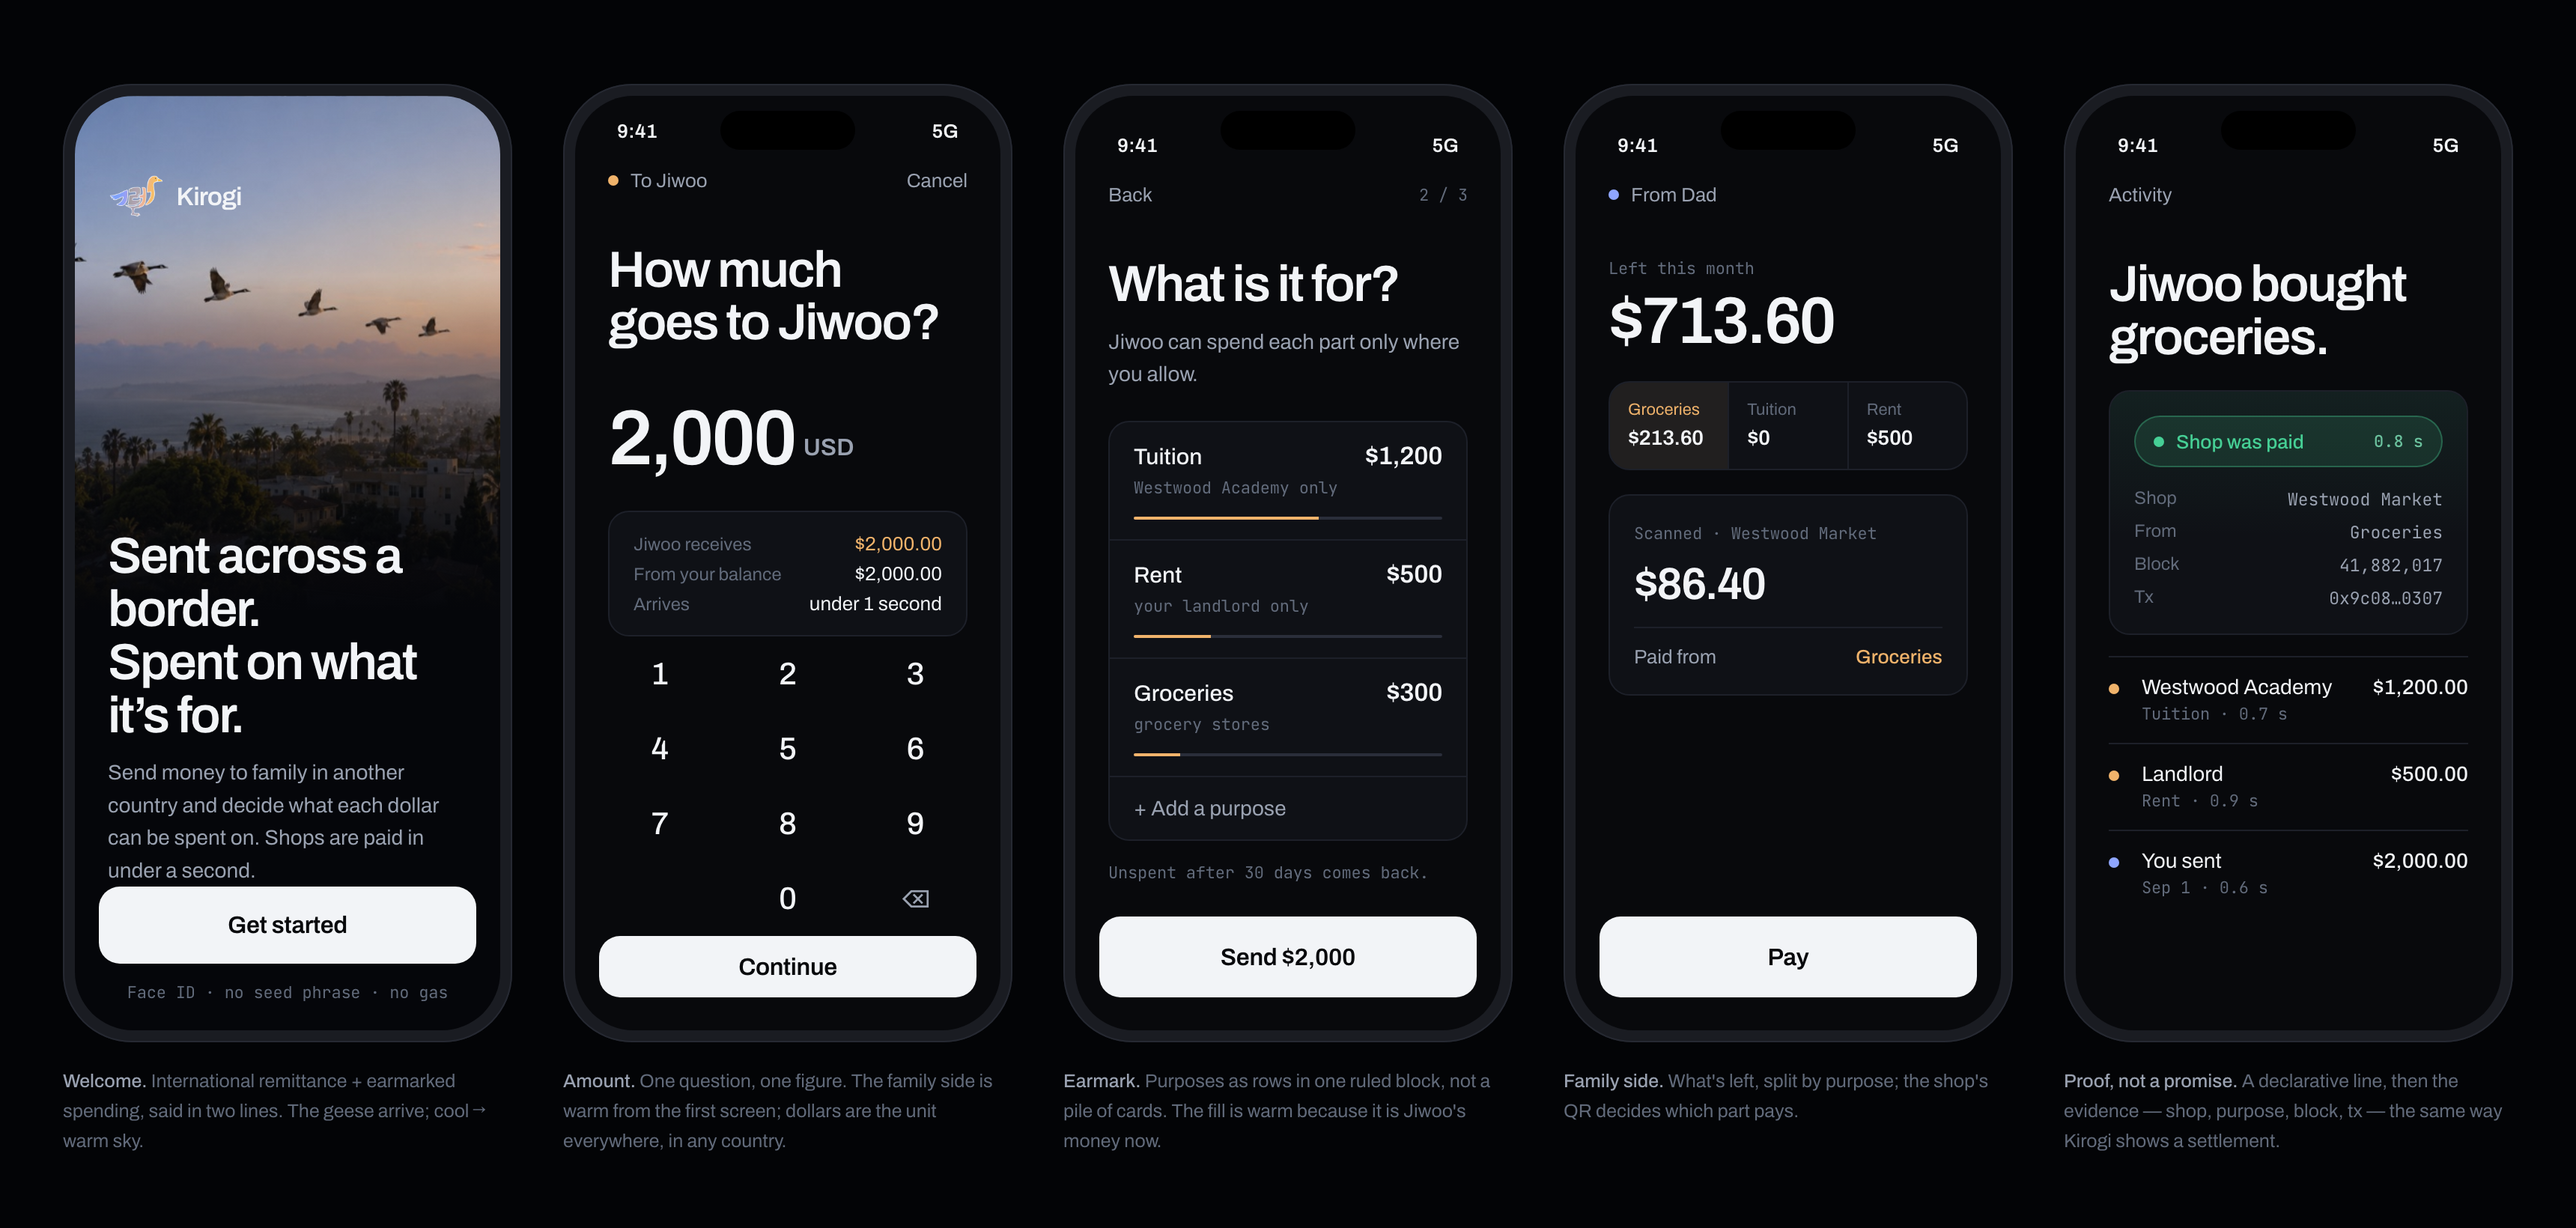
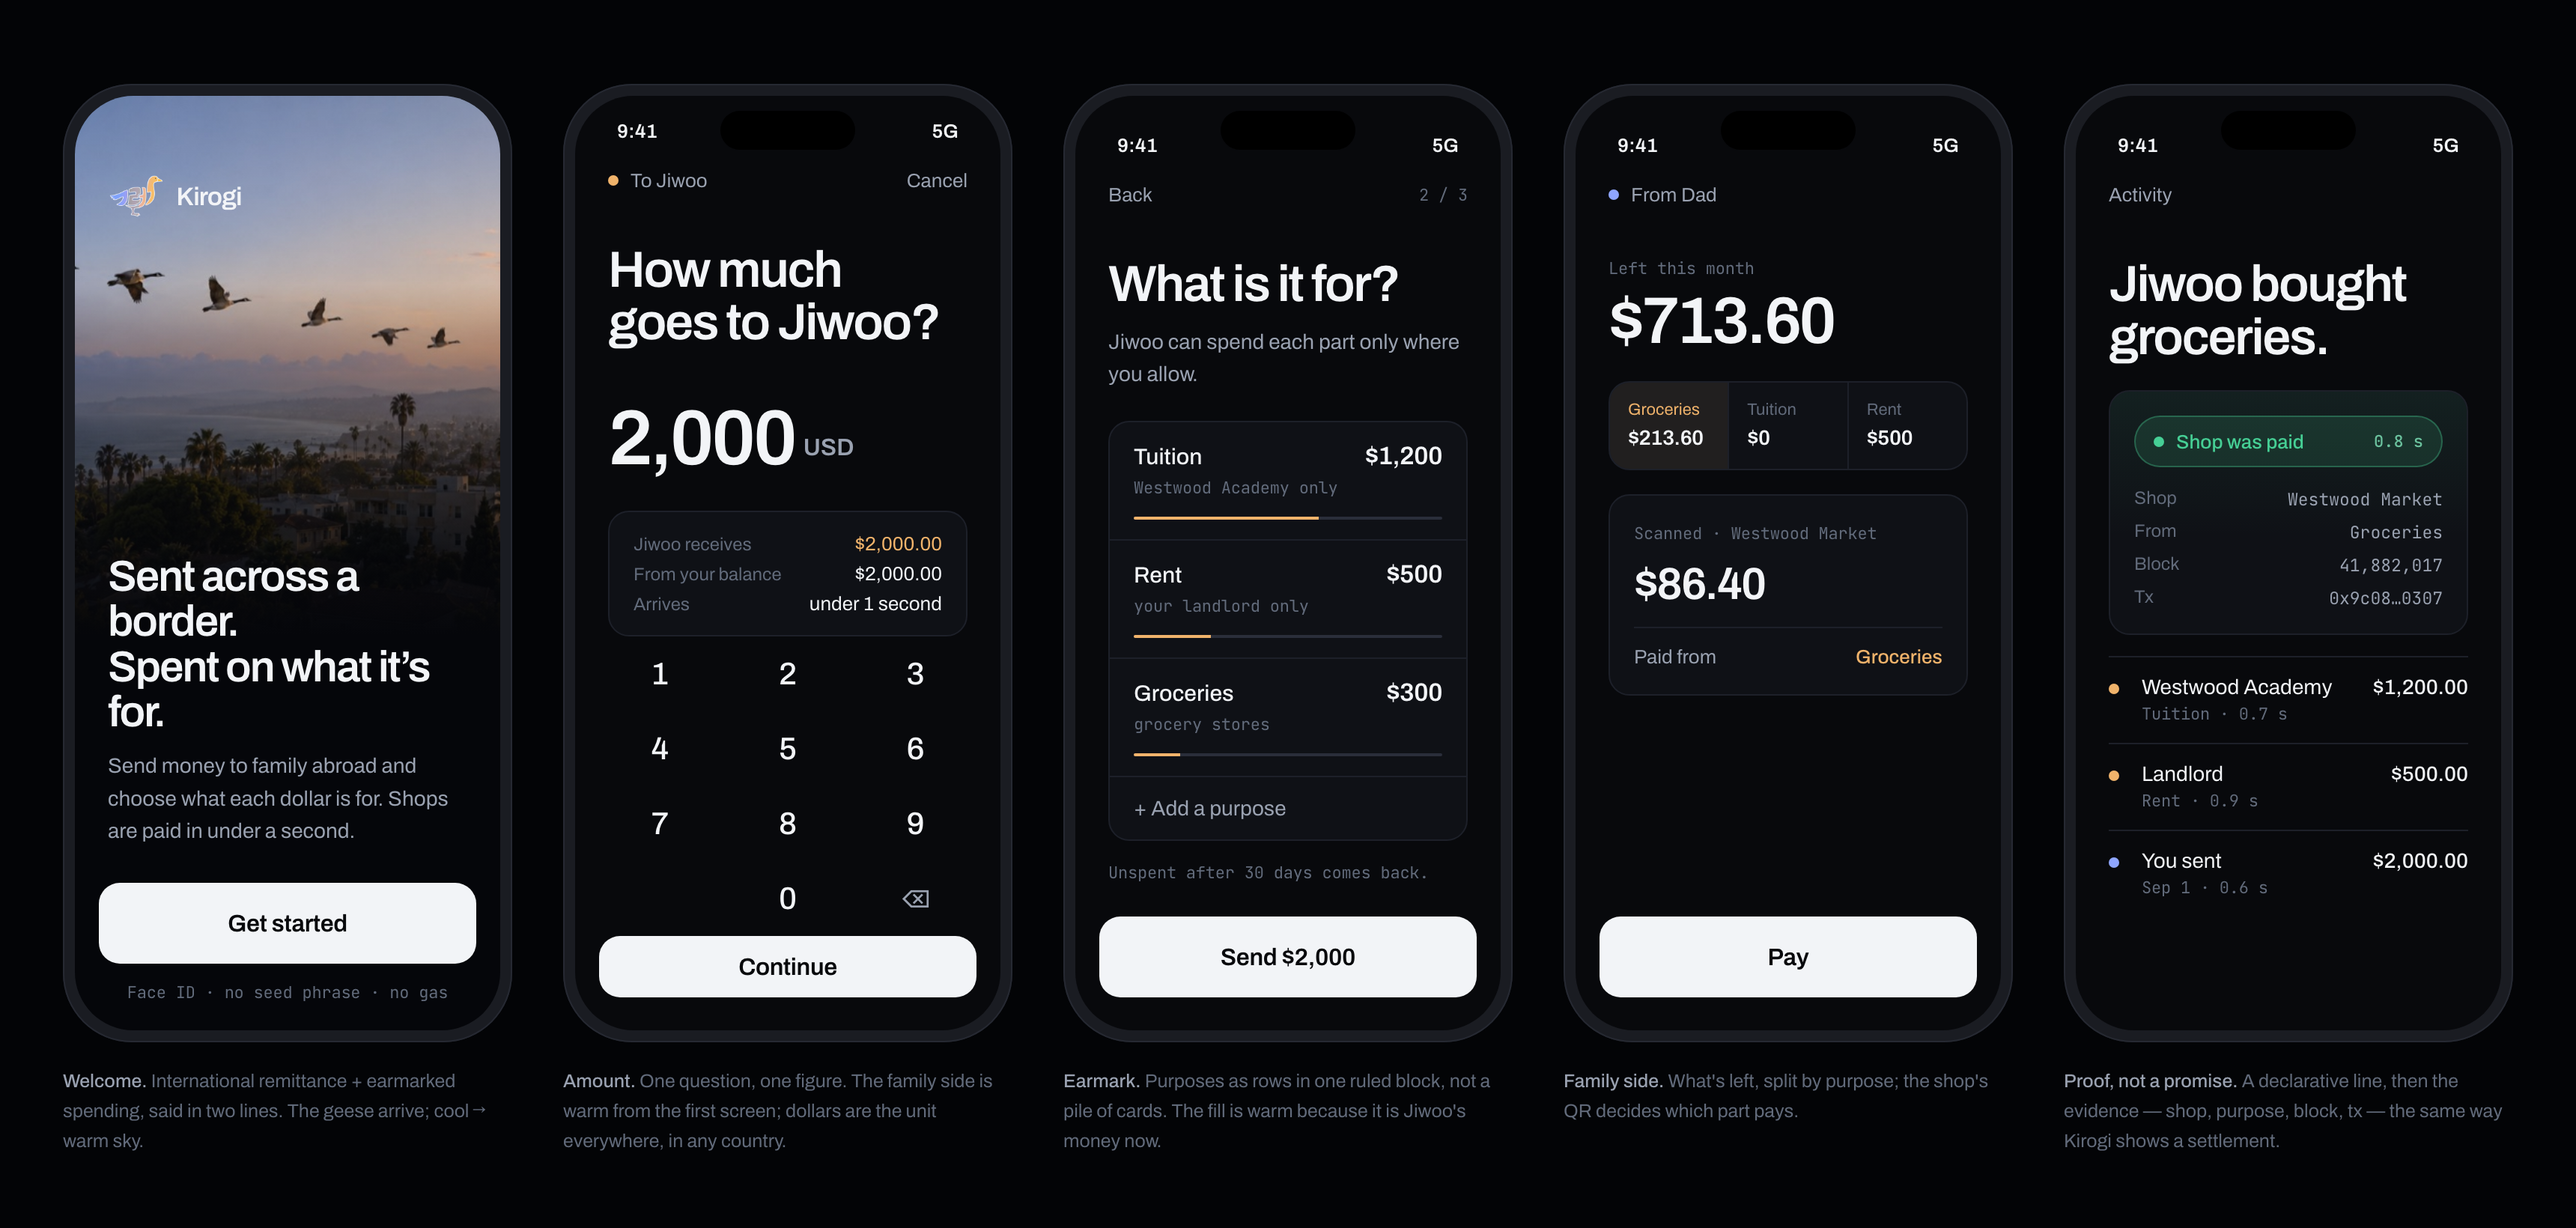
design: 시작 화면 제목 크기 조정

Changed region(s): [[0.0311, 0.2488, 0.2177, 0.7774], [0.0311, 0.2177, 0.0933, 0.2488]]

diff --git a/design/kirogi-dna.html b/design/kirogi-dna.html
@@ -94,8 +94,8 @@
   <div class="img"></div>
   <div class="brand"><img src="assets/kirogi/kirogi-mark.png" alt="">Kirogi</div>
   <div class="pad" style="margin-top:-54px;position:relative;z-index:2">
-    <h1 class="display d1">Sent across a border.<br>Spent on what it’s for.</h1>
-    <p class="lede">Send money to family in another country and decide what each dollar can be spent on. Shops are paid in under a second.</p>
+    <h1 class="display" style="font-size:29px">Sent across a border.<br>Spent on what it’s for.</h1>
+    <p class="lede">Send money to family abroad and choose what each dollar is for. Shops are paid in under a second.</p>
   </div>
   <div class="btn" style="margin-top:auto">Get started</div>
   <p class="mono" style="text-align:center;margin:-10px 0 18px">Face ID · no seed phrase · no gas</p>
